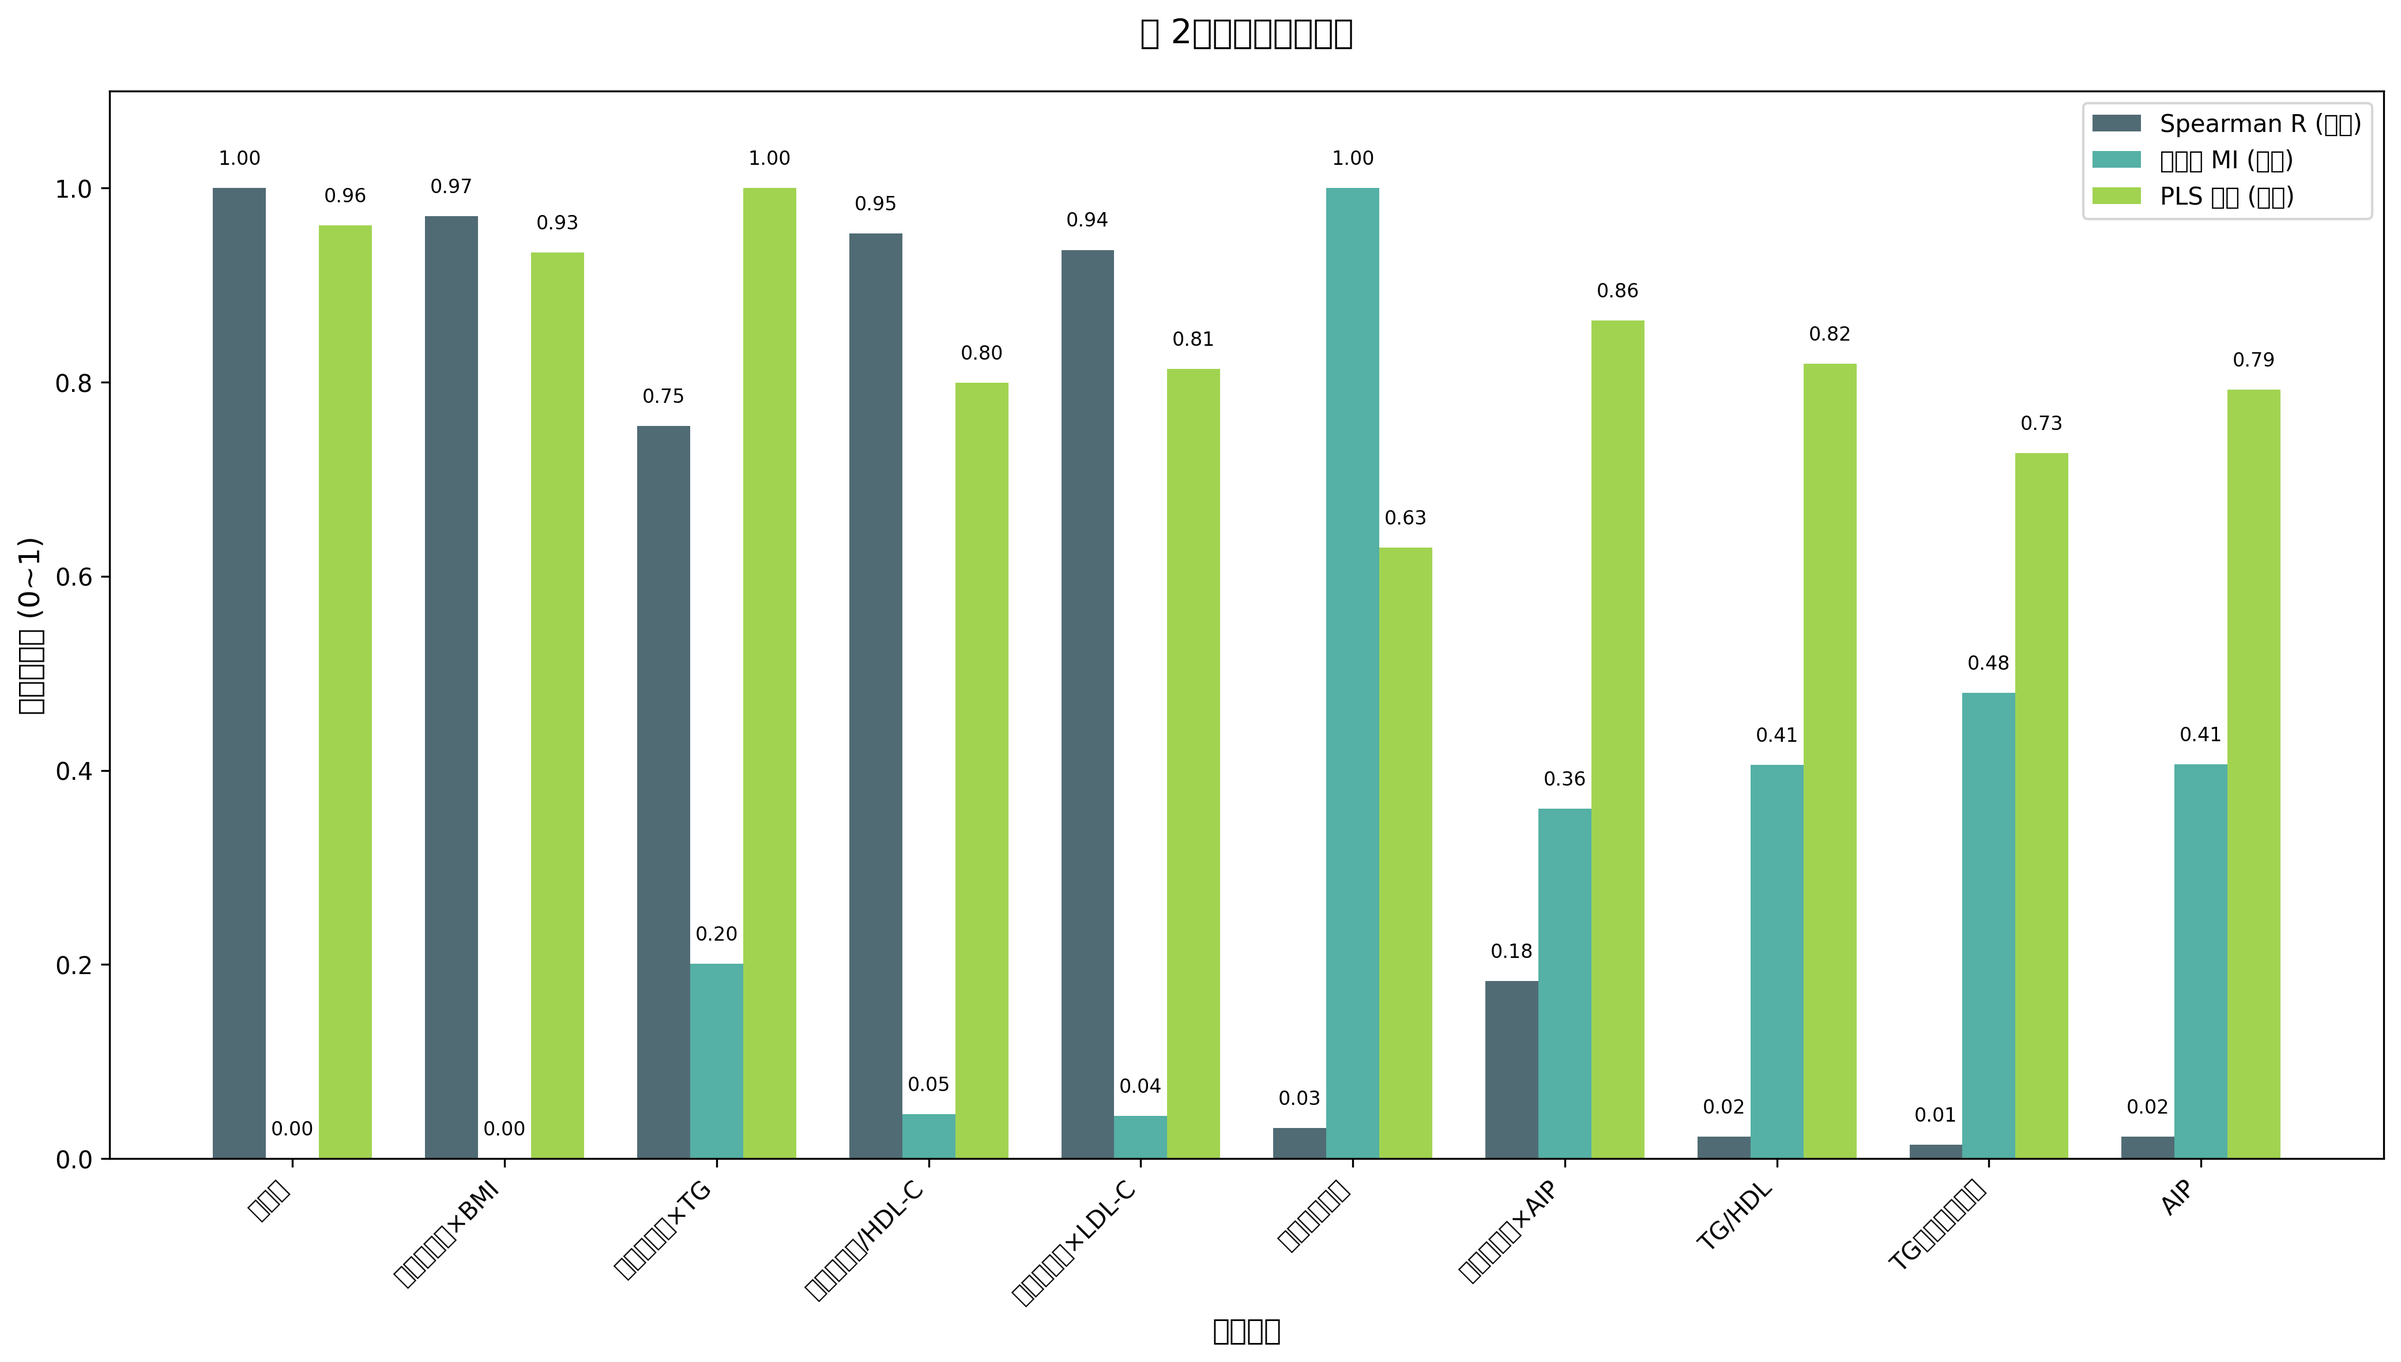
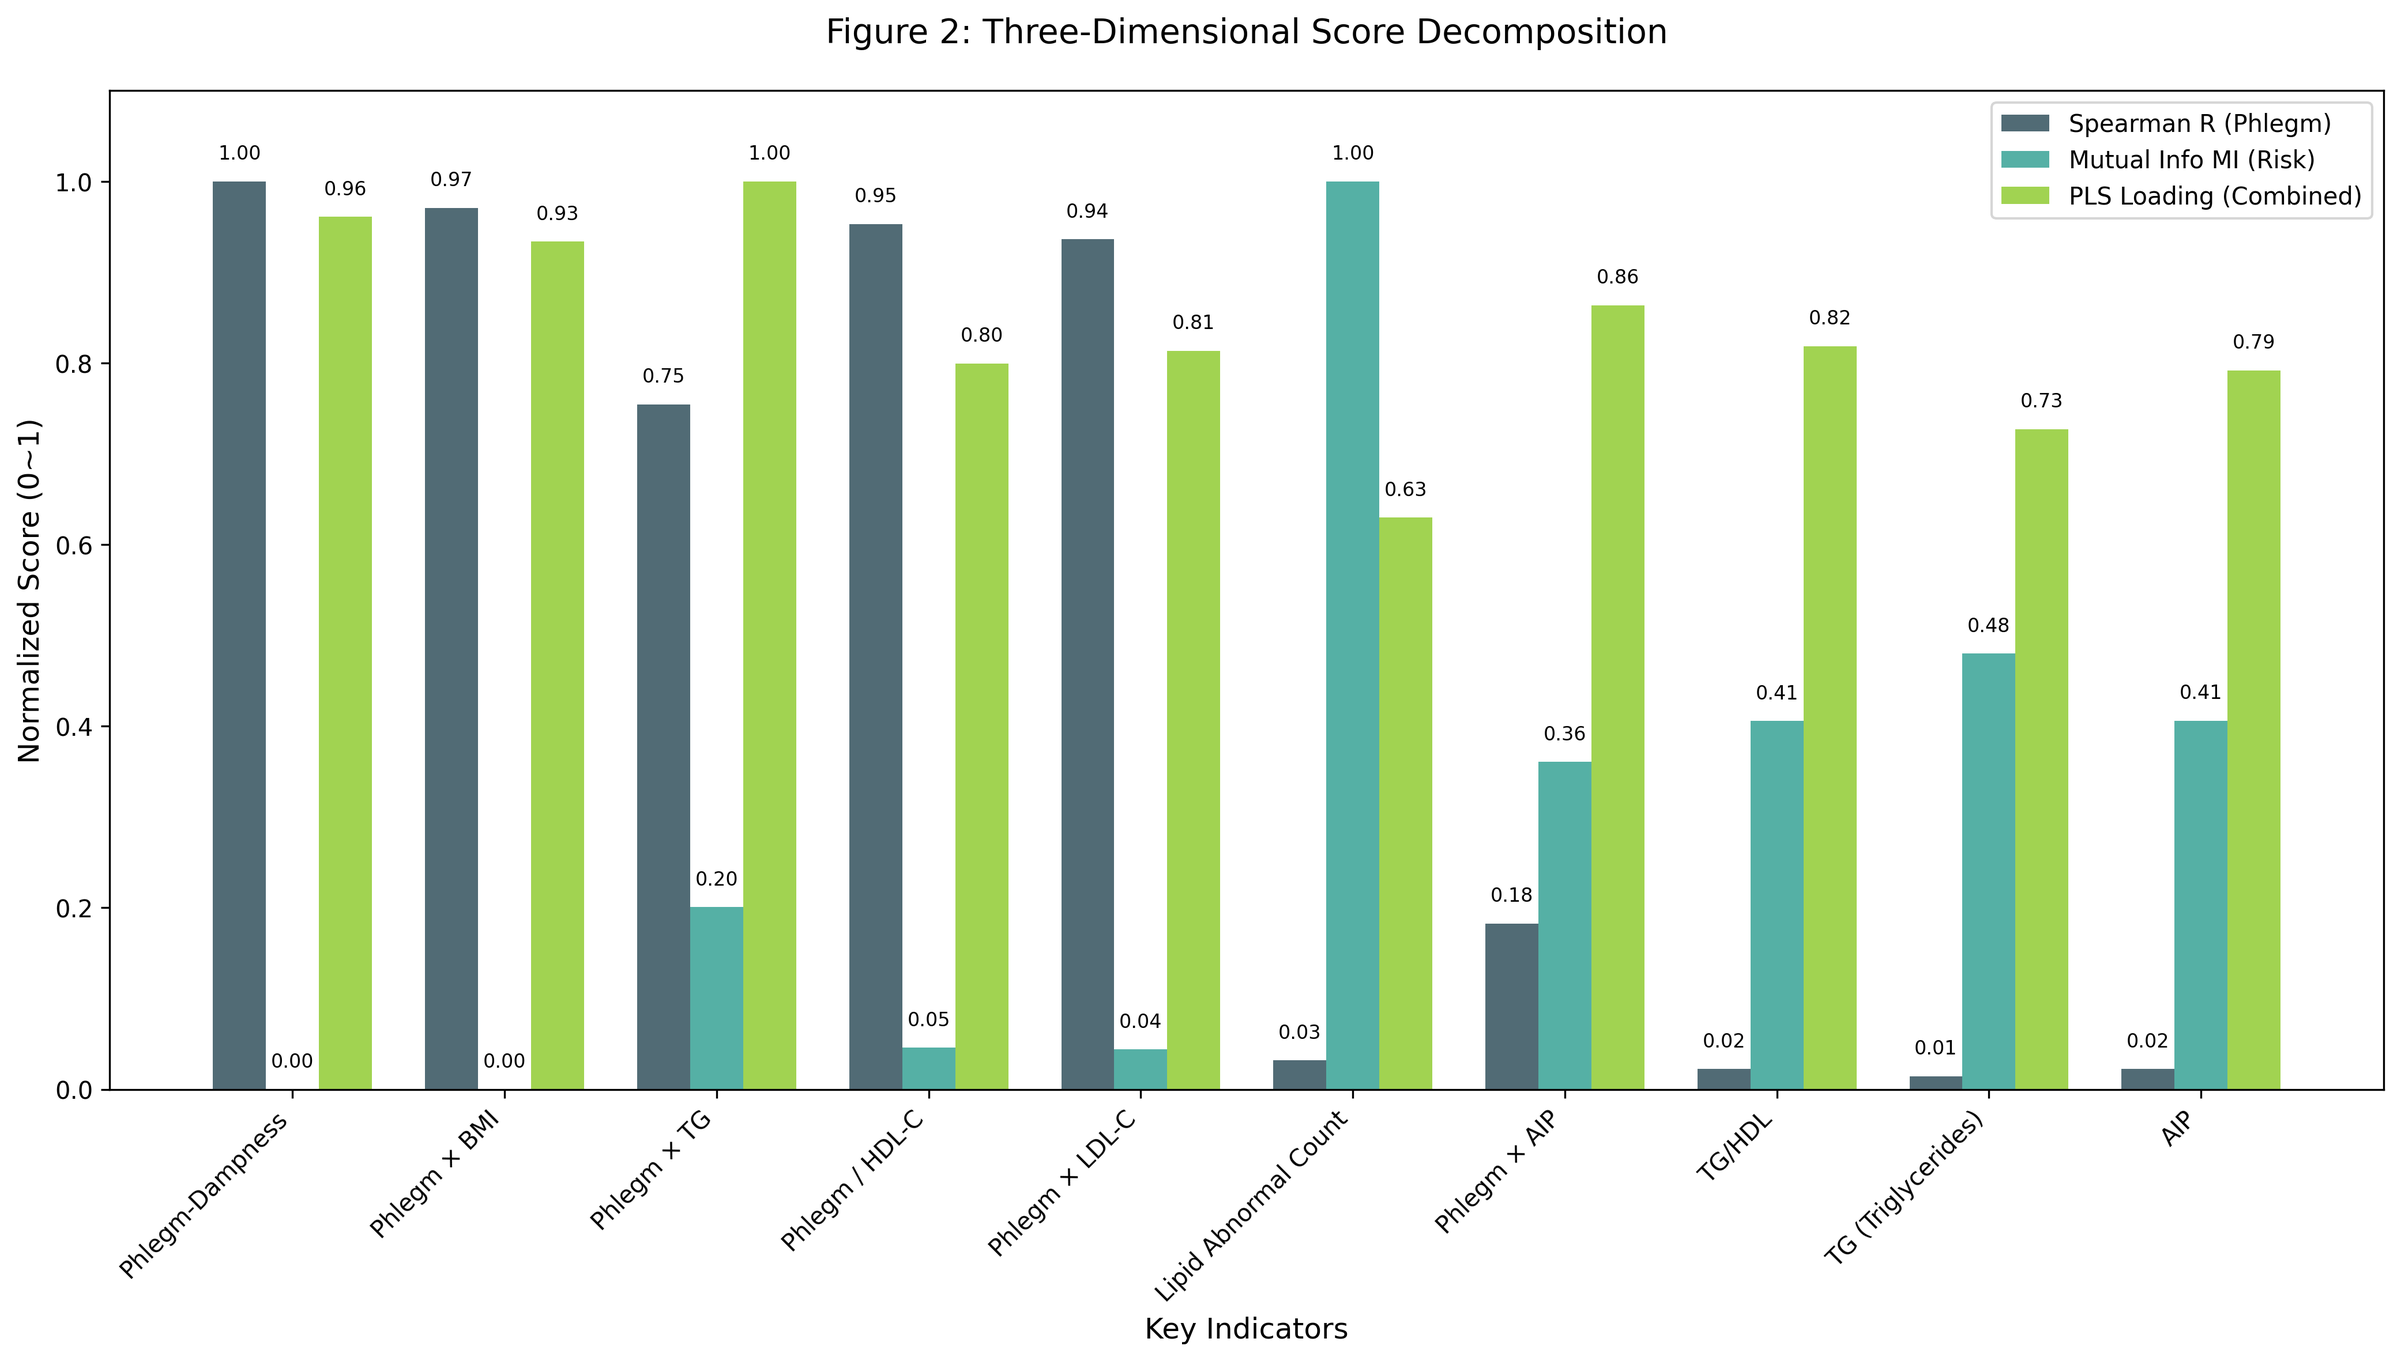
feat: 审查仓库代码

diff --git a/Project_mat/visualize_results_fixed.py b/Project_mat/visualize_results_fixed.py
@@ -12,6 +12,78 @@ warnings.filterwarnings('ignore')
 from matplotlib import font_manager
 import os
 
+# 中文字体映射 - 用于英文标签替代方案
+feature_name_map = {
+    '痰湿质': 'Phlegm-Dampness',
+    '痰湿质得分×TG': 'Phlegm × TG',
+    '痰湿质得分×BMI': 'Phlegm × BMI',
+    '痰湿质得分/HDL-C': 'Phlegm / HDL-C',
+    '痰湿质得分×LDL-C': 'Phlegm × LDL-C',
+    '血脂异常项数': 'Lipid Abnormal Count',
+    '痰湿质得分×AIP': 'Phlegm × AIP',
+    'TG/HDL': 'TG/HDL',
+    'TG（甘油三酯）': 'TG (Triglycerides)',
+    'AIP': 'AIP',
+    'non-HDL-C': 'non-HDL-C',
+    'TC/HDL': 'TC/HDL',
+    'LDL/HDL': 'LDL/HDL',
+    'TC（总胆固醇）': 'TC (Total Cholesterol)',
+    '血尿酸': 'Uric Acid',
+    'HDL-C（高密度脂蛋白）': 'HDL-C',
+    '尿酸异常标志': 'Uric Acid Abnormal',
+    '平和质': 'Balanced',
+    'LDL-C（低密度脂蛋白）': 'LDL-C',
+    '体质标签': 'Constitution Label',
+    '气虚质': 'Qi Deficiency',
+    '阳虚质': 'Yang Deficiency',
+    '阴虚质': 'Yin Deficiency',
+    '湿热质': 'Damp-Heat',
+    '血瘀质': 'Blood Stasis',
+    '气郁质': 'Qi Stagnation',
+    '特禀质': 'Special',
+    '气虚质得分×TC': 'Qi Deficiency × TC',
+    'ADL总分': 'ADL Total',
+    'IADL总分': 'IADL Total',
+    '活动量表总分（ADL总分+IADL总分）': 'Activity Total',
+    'BMI': 'BMI',
+    '空腹血糖': 'Fasting Glucose',
+    '年龄组': 'Age Group',
+    '性别': 'Gender',
+    '吸烟史': 'Smoking',
+    '饮酒史': 'Drinking',
+    'ADL用厕': 'ADL Toilet',
+    'ADL吃饭': 'ADL Eating',
+    'ADL步行': 'ADL Walking',
+    'ADL穿衣': 'ADL Dressing',
+    'ADL洗澡': 'ADL Bathing',
+    'IADL购物': 'IADL Shopping',
+    'IADL做饭': 'IADL Cooking',
+    'IADL理财': 'IADL Finance',
+    'IADL交通': 'IADL Transport',
+    'IADL服药': 'IADL Medicine',
+    '高血脂症二分类标签': 'Hyperlipidemia'
+}
+
+constitution_name_map = {
+    '平和质': 'Balanced',
+    '气虚质': 'Qi Deficiency',
+    '阳虚质': 'Yang Deficiency',
+    '阴虚质': 'Yin Deficiency',
+    '痰湿质': 'Phlegm-Dampness',
+    '湿热质': 'Damp-Heat',
+    '血瘀质': 'Blood Stasis',
+    '气郁质': 'Qi Stagnation',
+    '特禀质': 'Special'
+}
+
+def translate_feature_name(name):
+    """将中文特征名转换为英文，避免乱码问题"""
+    return feature_name_map.get(name, name)
+
+def translate_constitution_name(name):
+    """将中文体质名转换为英文，避免乱码问题"""
+    return constitution_name_map.get(name, name)
+
 # 设置字体 - 健壮的中文字体设置
 def setup_chinese_font():
     """自动检测并设置可用的中文字体"""
@@ -34,36 +106,45 @@ def setup_chinese_font():
     # 检查系统中可用的字体
     available_fonts = [f.name for f in font_manager.fontManager.ttflist]
     
+    # 打印一些可用的字体信息（用于调试）
+    print("系统可用的字体（前20个）：")
+    for i, font in enumerate(available_fonts[:20]):
+        print(f"  {i+1}. {font}")
+    
     # 查找第一个可用的中文字体
     selected_font = None
     for font in chinese_fonts:
         if font in available_fonts:
             selected_font = font
-            print(f"找到可用的中文字体: {font}")
+            print(f"\n找到可用的中文字体: {font}")
             break
     
     # 如果没有找到特定的中文字体，尝试使用系统默认字体
     if selected_font is None:
-        print("未找到指定的中文字体，尝试使用系统默认字体")
+        print("\n未找到指定的中文字体，尝试使用系统默认字体")
         # 使用font_manager中的字体
         for f in font_manager.fontManager.ttflist:
-            if 'chinese' in f.name.lower() or 'chinese' in f.fname.lower() or 'CJK' in f.name:
+            if any(keyword in f.name.lower() for keyword in ['chinese', 'cjk', 'jp', 'cn']):
                 selected_font = f.name
                 print(f"使用字体: {selected_font}")
                 break
     
     # 设置matplotlib参数
+    use_chinese = False
     if selected_font:
         plt.rcParams["font.family"] = selected_font
+        use_chinese = True
     else:
-        print("未找到中文字体，使用默认字体（可能会出现乱码）")
+        print("\n未找到中文字体，将使用英文标签避免乱码")
         plt.rcParams["font.family"] = 'DejaVu Sans'
     
     # 解决负号显示问题
     plt.rcParams["axes.unicode_minus"] = False
+    
+    return use_chinese
 
 # 调用字体设置函数
-setup_chinese_font()
+use_chinese_fonts = setup_chinese_font()
 
 # 加载数据
 df = pd.read_excel('data/raw/附件1：样例数据.xlsx')
@@ -85,6 +166,7 @@ df['TG/HDL'] = df['TG（甘油三酯）'] / df['HDL-C（高密度脂蛋白）']
 
 def count_dyslipidemia(row):
     count = 0
+    # 假设参考值：TC>5.2，TG>1.7，LDL-C>3.4，HDL-C<1.0
     if row['TC（总胆固醇）'] > 5.2: count += 1
     if row['TG（甘油三酯）'] > 1.7: count += 1
     if row['LDL-C（低密度脂蛋白）'] > 3.4: count += 1
@@ -93,9 +175,9 @@ def count_dyslipidemia(row):
 df['血脂异常项数'] = df.apply(count_dyslipidemia, axis=1)
 
 def uric_acid_abnormal(row):
-    if row['性别'] == 1:
+    if row['性别'] == 1:  # 男性
         return 1 if row['血尿酸'] > 420 else 0
-    else:
+    else:  # 女性
         return 1 if row['血尿酸'] > 360 else 0
 df['尿酸异常标志'] = df.apply(uric_acid_abnormal, axis=1)
 
@@ -216,7 +298,7 @@ feature_scores = pd.DataFrame({
 feature_scores = feature_scores.sort_values('total_score', ascending=False)
 
 # === 图 1：双目标联合筛选综合评分排序图 ===
-print("生成图 1：双目标联合筛选综合评分排序图")
+print("\n生成图 1：双目标联合筛选综合评分排序图")
 plt.figure(figsize=(12, 10))
 
 # 取前15个指标
@@ -231,6 +313,20 @@ color_map = {
 
 colors = [color_map[t] for t in top15['feature_type']]
 
+# 准备标签
+if use_chinese_fonts:
+    y_labels = top15['feature']
+    weight_formula = f'F = {weights[0]:.2f}×R\' + {weights[1]:.2f}×M\' + {weights[2]:.2f}×L\''
+    title = '图 1：双目标联合筛选综合评分排序图\n' + weight_formula
+    x_label = '综合评分 F_score'
+    legend_labels = ['基础特征', '派生特征', '中西医交叉特征']
+else:
+    y_labels = [translate_feature_name(f) for f in top15['feature']]
+    weight_formula = f'F = {weights[0]:.2f}×R\' + {weights[1]:.2f}×M\' + {weights[2]:.2f}×L\''
+    title = 'Figure 1: Dual-Objective Screening Score\n' + weight_formula
+    x_label = 'Combined Score F_score'
+    legend_labels = ['Basic Features', 'Derived Features', 'TCM-WM Cross Features']
+
 # 水平条形图
 y_pos = np.arange(len(top15))
 bars = plt.barh(y_pos, top15['total_score'], color=colors, height=0.7)
@@ -239,10 +335,10 @@ bars = plt.barh(y_pos, top15['total_score'], color=colors, height=0.7)
 plt.gca().invert_yaxis()
 
 # 设置Y轴标签
-plt.yticks(y_pos, top15['feature'], fontsize=11)
+plt.yticks(y_pos, y_labels, fontsize=11)
 
 # 设置X轴
-plt.xlabel('综合评分 F_score', fontsize=12)
+plt.xlabel(x_label, fontsize=12)
 plt.xlim(0, 1)
 
 # 添加数值标注
@@ -252,16 +348,14 @@ for i, bar in enumerate(bars):
              f'{width:.3f}', va='center', fontsize=9)
 
 # 添加标题和图例
-weight_formula = f'F = {weights[0]:.2f}×R\' + {weights[1]:.2f}×M\' + {weights[2]:.2f}×L\''
-plt.title(f'图 1：双目标联合筛选综合评分排序图\n{weight_formula}', 
-          fontsize=14, pad=20)
+plt.title(title, fontsize=14, pad=20)
 
 # 创建图例
 from matplotlib.patches import Patch
 legend_elements = [
-    Patch(facecolor=color_map['基础特征'], label='基础特征'),
-    Patch(facecolor=color_map['派生特征'], label='派生特征'),
-    Patch(facecolor=color_map['中西医交叉特征'], label='中西医交叉特征')
+    Patch(facecolor=color_map['基础特征'], label=legend_labels[0]),
+    Patch(facecolor=color_map['派生特征'], label=legend_labels[1]),
+    Patch(facecolor=color_map['中西医交叉特征'], label=legend_labels[2])
 ]
 plt.legend(handles=legend_elements, loc='lower right', fontsize=10)
 
@@ -281,19 +375,31 @@ top10 = feature_scores.head(10)
 bar_width = 0.25
 x = np.arange(len(top10))
 
+# 准备标签
+if use_chinese_fonts:
+    x_labels = top10['feature']
+    title = '图 2：三维评分分解图'
+    y_label = '归一化得分 (0~1)'
+    legend_labels = ['Spearman R (痰湿)', '互信息 MI (风险)', 'PLS 载荷 (联合)']
+else:
+    x_labels = [translate_feature_name(f) for f in top10['feature']]
+    title = 'Figure 2: Three-Dimensional Score Decomposition'
+    y_label = 'Normalized Score (0~1)'
+    legend_labels = ['Spearman R (Phlegm)', 'Mutual Info MI (Risk)', 'PLS Loading (Combined)']
+
 # 绘制三组柱状图
 bars1 = plt.bar(x - bar_width, top10['spearman_normalized'], width=bar_width, 
-                label='Spearman R (痰湿)', color='#264653', alpha=0.8)
+                label=legend_labels[0], color='#264653', alpha=0.8)
 bars2 = plt.bar(x, top10['mutual_info_normalized'], width=bar_width, 
-                label='互信息 MI (风险)', color='#2A9D8F', alpha=0.8)
+                label=legend_labels[1], color='#2A9D8F', alpha=0.8)
 bars3 = plt.bar(x + bar_width, top10['pls_normalized'], width=bar_width, 
-                label='PLS 载荷 (联合)', color='#8AC926', alpha=0.8)
+                label=legend_labels[2], color='#8AC926', alpha=0.8)
 
 # 设置标签和标题
-plt.xlabel('关键指标', fontsize=12)
-plt.ylabel('归一化得分 (0~1)', fontsize=12)
-plt.title('图 2：三维评分分解图', fontsize=14, pad=20)
-plt.xticks(x, top10['feature'], rotation=45, ha='right')
+plt.xlabel('Key Indicators' if not use_chinese_fonts else '关键指标', fontsize=12)
+plt.ylabel(y_label, fontsize=12)
+plt.title(title, fontsize=14, pad=20)
+plt.xticks(x, x_labels, rotation=45, ha='right')
 plt.legend(loc='upper right')
 plt.ylim(0, 1.1)
 
@@ -363,14 +469,29 @@ rr_sorted_idx = np.argsort(relative_risks)[::-1]
 rr_sorted = [relative_risks[i] for i in rr_sorted_idx]
 constitutions_sorted_rr = [constitution_types[i] for i in rr_sorted_idx]
 
+# 准备标签
+if use_chinese_fonts:
+    y_labels_left = constitutions_sorted_rr
+    title_left = f'左面板：相对风险分析\n总体患病率: {total_prevalence:.3f}, 卡方检验 p = {p_value:.4f}'
+    x_label_left = '相对风险 (RR)'
+    legend_label_left = '总体风险基准'
+    title_right = '右面板：Logistic 回归净贡献\n控制变量：血脂、活动能力、人口学因素'
+    x_label_right = '标准化回归系数 β'
+else:
+    y_labels_left = [translate_constitution_name(c) for c in constitutions_sorted_rr]
+    title_left = f'Left Panel: Relative Risk Analysis\nPrevalence: {total_prevalence:.3f}, Chi-square p = {p_value:.4f}'
+    x_label_left = 'Relative Risk (RR)'
+    legend_label_left = 'Population Risk Baseline'
+    title_right = 'Right Panel: Logistic Regression Net Contribution\nControlled: Lipids, Activity, Demographics'
+    x_label_right = 'Standardized Coefficient β'
+
 bars_rr = ax1.barh(y_pos_const, rr_sorted, color='#E76F51', height=0.6)
 ax1.invert_yaxis()
 ax1.set_yticks(y_pos_const)
-ax1.set_yticklabels(constitutions_sorted_rr, fontsize=11)
-ax1.set_xlabel('相对风险 (RR)', fontsize=12)
-ax1.set_title(f'左面板：相对风险分析\n总体患病率: {total_prevalence:.3f}, 卡方检验 p = {p_value:.4f}', 
-              fontsize=12, pad=15)
-ax1.axvline(x=1.0, color='gray', linestyle='--', linewidth=1.5, label='总体风险基准')
+ax1.set_yticklabels(y_labels_left, fontsize=11)
+ax1.set_xlabel(x_label_left, fontsize=12)
+ax1.set_title(title_left, fontsize=12, pad=15)
+ax1.axvline(x=1.0, color='gray', linestyle='--', linewidth=1.5, label=legend_label_left)
 ax1.legend(loc='lower right')
 
 # 添加数值标注
@@ -398,13 +519,18 @@ def get_coef_color(coef):
 
 colors_coef = [get_coef_color(c) for c in coef_sorted]
 
+# 准备标签
+if use_chinese_fonts:
+    y_labels_right = constitutions_sorted
+else:
+    y_labels_right = [translate_constitution_name(c) for c in constitutions_sorted]
+
 bars_coef = ax2.barh(y_pos_const, coef_sorted, color=colors_coef, height=0.6)
 ax2.invert_yaxis()
 ax2.set_yticks(y_pos_const)
-ax2.set_yticklabels(constitutions_sorted, fontsize=11)
-ax2.set_xlabel('标准化回归系数 β', fontsize=12)
-ax2.set_title('右面板：Logistic 回归净贡献\n控制变量：血脂、活动能力、人口学因素', 
-              fontsize=12, pad=15)
+ax2.set_yticklabels(y_labels_right, fontsize=11)
+ax2.set_xlabel(x_label_right, fontsize=12)
+ax2.set_title(title_right, fontsize=12, pad=15)
 ax2.axvline(x=0, color='black', linestyle='-', linewidth=1)
 
 # 添加数值标注
@@ -433,13 +559,21 @@ corr_matrix = df[heatmap_features].corr(method='spearman')
 # 创建热力图
 plt.figure(figsize=(14, 12))
 
+# 准备标签
+if use_chinese_fonts:
+    heatmap_labels = heatmap_features
+    title = '图 4：关键指标与双目标的相关性热力图\n(Spearman 相关系数)'
+else:
+    heatmap_labels = [translate_feature_name(f) for f in heatmap_features]
+    title = 'Figure 4: Correlation Heatmap of Key Indicators\n(Spearman Correlation)'
+
 # 绘制热力图
 sns.heatmap(corr_matrix, annot=True, fmt='.2f', cmap='RdBu_r', 
-            center=0, square=True, linewidths=1, cbar_kws={'shrink': 0.8})
+            center=0, square=True, linewidths=1, cbar_kws={'shrink': 0.8},
+            xticklabels=heatmap_labels, yticklabels=heatmap_labels)
 
 # 添加标题
-plt.title('图 4：关键指标与双目标的相关性热力图\n(Spearman 相关系数)', 
-          fontsize=14, pad=20)
+plt.title(title, fontsize=14, pad=20)
 
 # 添加黑色粗边框框出最后两列
 ax = plt.gca()
@@ -461,3 +595,7 @@ print("1. figure1_综合评分排序.png")
 print("2. figure2_三维评分分解.png")
 print("3. figure3_体质风险贡献.png")
 print("4. figure4_相关性热力图.png")
+
+if not use_chinese_fonts:
+    print("\n注意：由于系统未找到中文字体，图表中使用了英文标签。")
+    print("如需显示中文，请安装中文字体，如 SimHei、WenQuanYi Micro Hei 等。")
